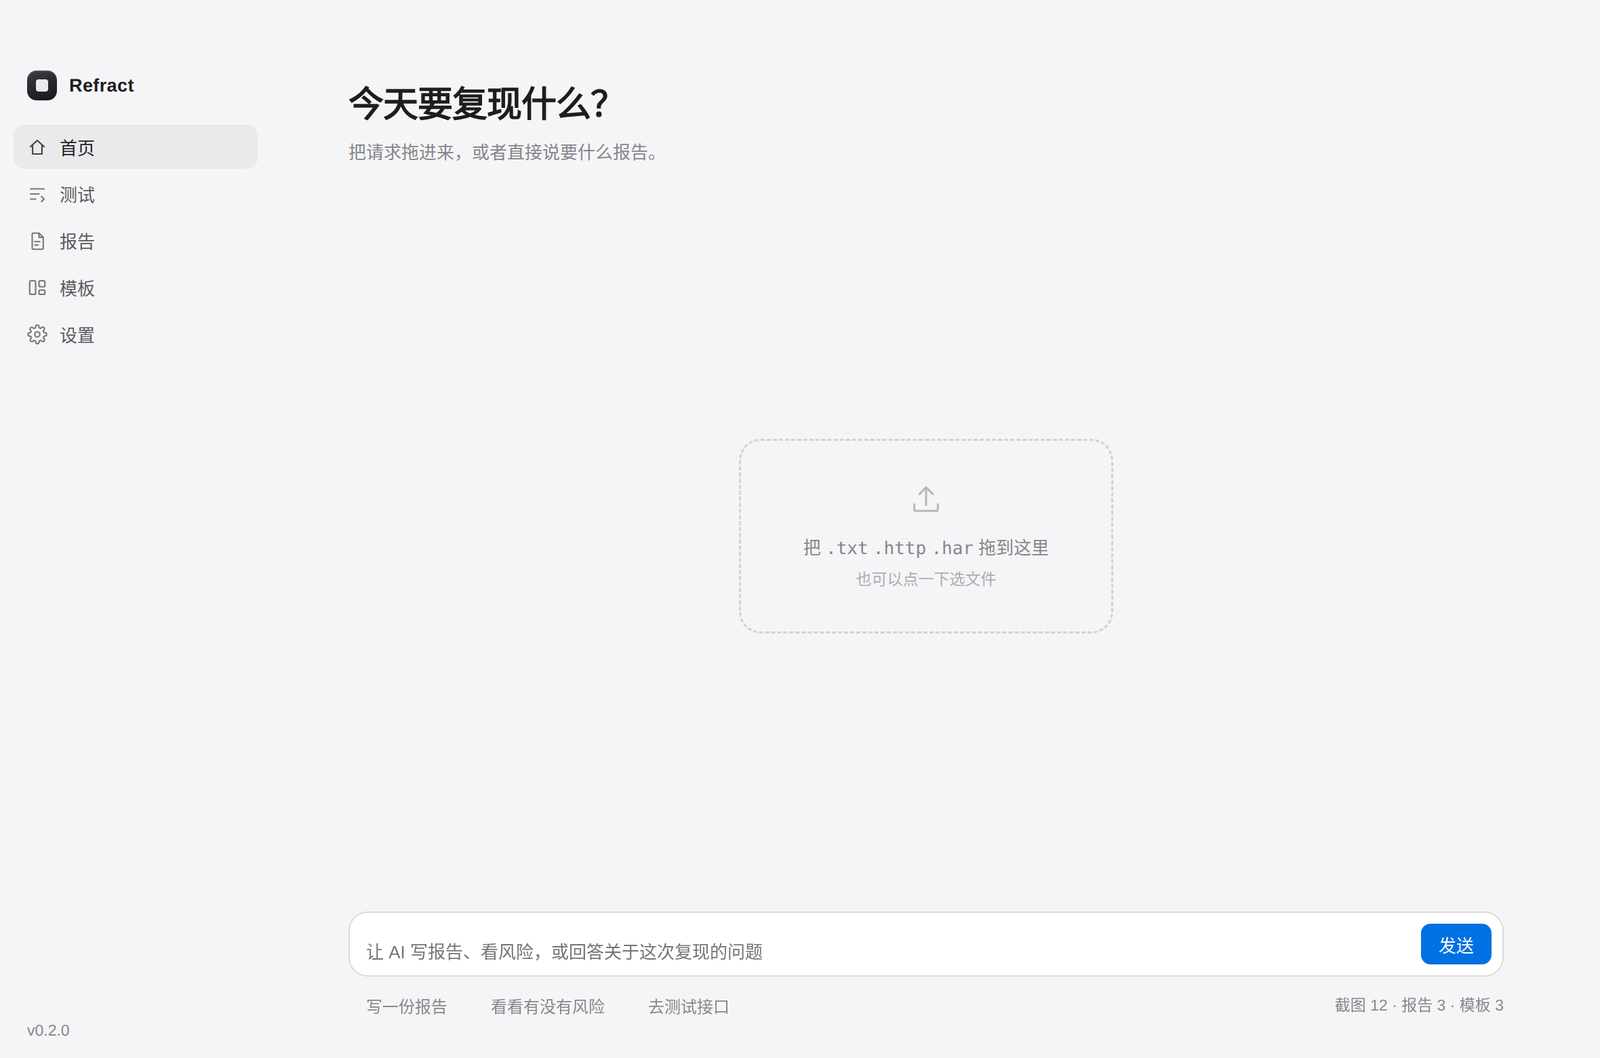
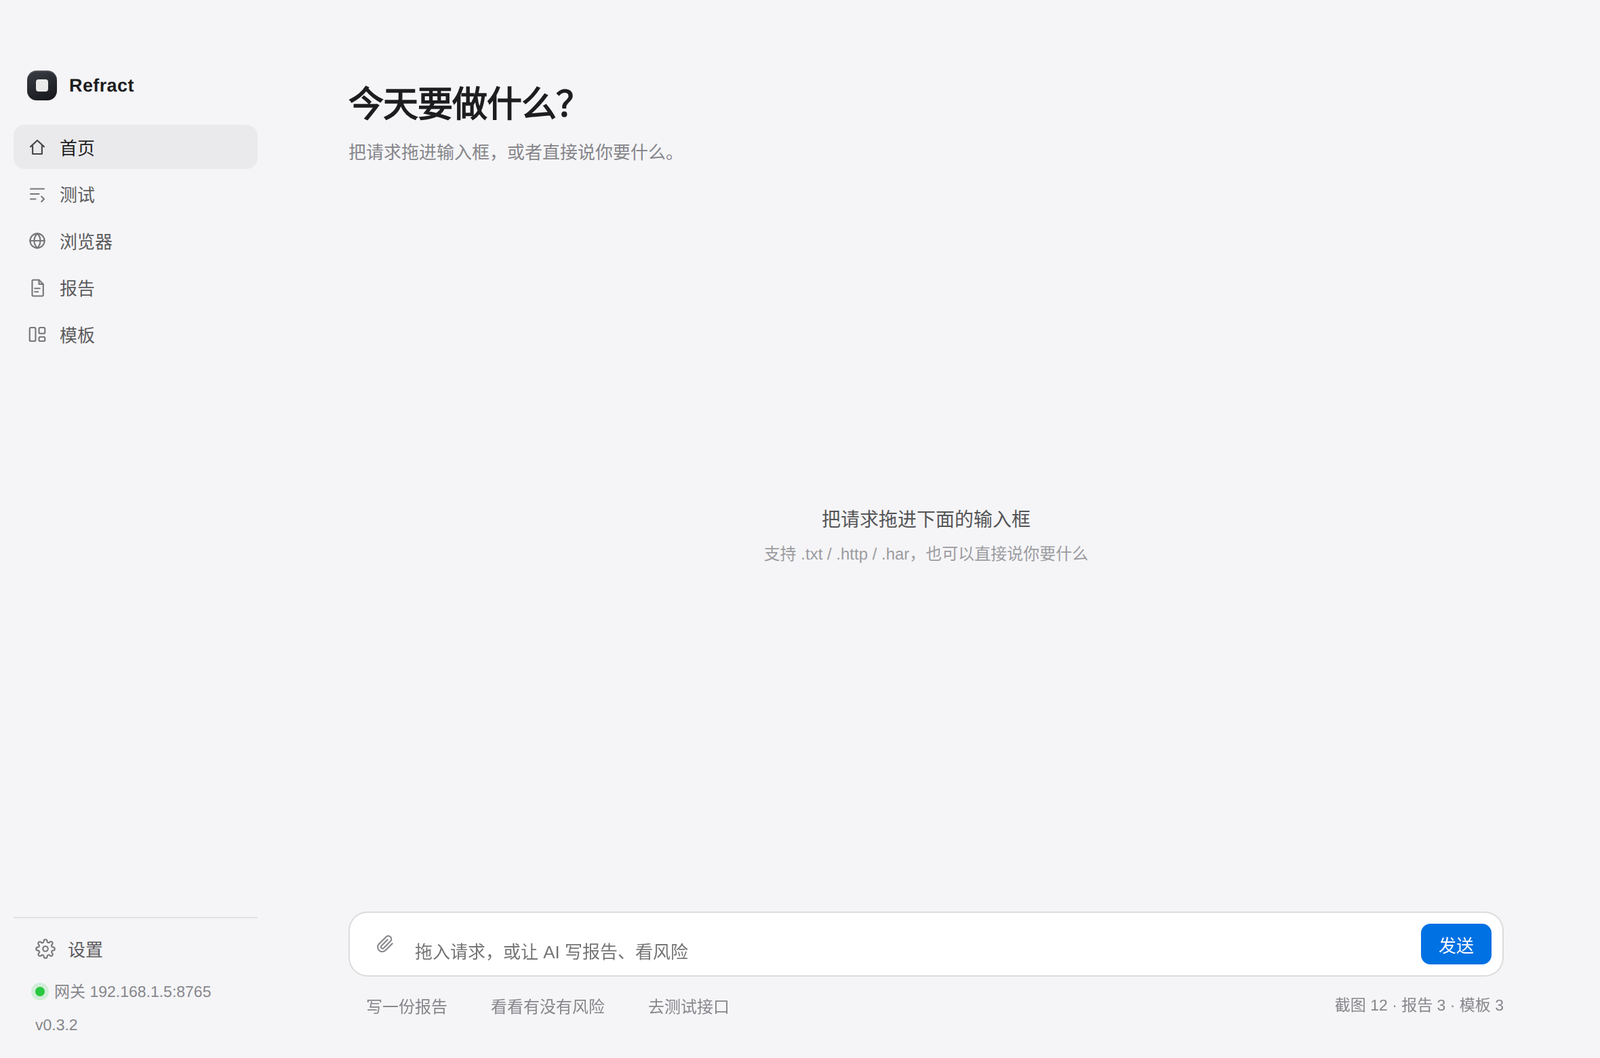
0.4.0：设置收进侧栏底部上拉菜单，底部显示网关地址，加备份导入导出

diff --git a/renderer/index.html b/renderer/index.html
@@ -32,13 +32,25 @@
       <svg viewBox="0 0 24 24" fill="none" stroke="currentColor" stroke-width="1.7" stroke-linecap="round" stroke-linejoin="round"><rect x="3" y="4" width="7" height="16" rx="1.5"/><rect x="14" y="4" width="7" height="7" rx="1.5"/><rect x="14" y="15" width="7" height="5" rx="1.5"/></svg>
       模板
     </button>
-    <button class="nav" data-page="settings">
-      <svg viewBox="0 0 24 24" fill="none" stroke="currentColor" stroke-width="1.7" stroke-linecap="round" stroke-linejoin="round"><circle cx="12" cy="12" r="3"/><path d="M19.4 15a1.6 1.6 0 0 0 .3 1.8l.1.1a2 2 0 1 1-2.8 2.8l-.1-.1a1.6 1.6 0 0 0-1.8-.3 1.6 1.6 0 0 0-1 1.5V21a2 2 0 1 1-4 0v-.1a1.6 1.6 0 0 0-1-1.5 1.6 1.6 0 0 0-1.8.3l-.1.1a2 2 0 1 1-2.8-2.8l.1-.1a1.6 1.6 0 0 0 .3-1.8 1.6 1.6 0 0 0-1.5-1H3a2 2 0 1 1 0-4h.1a1.6 1.6 0 0 0 1.5-1 1.6 1.6 0 0 0-.3-1.8l-.1-.1a2 2 0 1 1 2.8-2.8l.1.1a1.6 1.6 0 0 0 1.8.3H9a1.6 1.6 0 0 0 1-1.5V3a2 2 0 1 1 4 0v.1a1.6 1.6 0 0 0 1 1.5 1.6 1.6 0 0 0 1.8-.3l.1-.1a2 2 0 1 1 2.8 2.8l-.1.1a1.6 1.6 0 0 0-.3 1.8V9a1.6 1.6 0 0 0 1.5 1H21a2 2 0 1 1 0 4h-.1a1.6 1.6 0 0 0-1.5 1z"/></svg>
-      设置
-    </button>
-
     <div class="grow"></div>
-    <div class="ver" id="ver"></div>
+
+    <div class="side-foot">
+      <button class="nav" id="navSettings">
+        <svg viewBox="0 0 24 24" fill="none" stroke="currentColor" stroke-width="1.7" stroke-linecap="round" stroke-linejoin="round"><circle cx="12" cy="12" r="3"/><path d="M19.4 15a1.6 1.6 0 0 0 .3 1.8l.1.1a2 2 0 1 1-2.8 2.8l-.1-.1a1.6 1.6 0 0 0-1.8-.3 1.6 1.6 0 0 0-1 1.5V21a2 2 0 1 1-4 0v-.1a1.6 1.6 0 0 0-1-1.5 1.6 1.6 0 0 0-1.8.3l-.1.1a2 2 0 1 1-2.8-2.8l.1-.1a1.6 1.6 0 0 0 .3-1.8 1.6 1.6 0 0 0-1.5-1H3a2 2 0 1 1 0-4h.1a1.6 1.6 0 0 0 1.5-1 1.6 1.6 0 0 0-.3-1.8l-.1-.1a2 2 0 1 1 2.8-2.8l.1.1a1.6 1.6 0 0 0 1.8.3H9a1.6 1.6 0 0 0 1-1.5V3a2 2 0 1 1 4 0v.1a1.6 1.6 0 0 0 1 1.5 1.6 1.6 0 0 0 1.8-.3l.1-.1a2 2 0 1 1 2.8 2.8l-.1.1a1.6 1.6 0 0 0-.3 1.8V9a1.6 1.6 0 0 0 1.5 1H21a2 2 0 1 1 0 4h-.1a1.6 1.6 0 0 0-1.5 1z"/></svg>
+        设置
+      </button>
+      <div class="pop" id="settingsPop" hidden>
+        <button data-sec="general">常规</button>
+        <button data-sec="network">网络</button>
+        <button data-sec="llm">LLM</button>
+        <button data-sec="backup">备份</button>
+        <button data-sec="about">关于</button>
+      </div>
+      <div class="gateway" id="gateway" title="点击复制地址">
+        <span class="gdot off" id="gwDot"></span><span id="gwText">服务未启动</span>
+      </div>
+      <div class="ver" id="ver"></div>
+    </div>
   </aside>
 
   <main>
@@ -205,18 +217,9 @@
     <section class="page" id="page-settings">
       <div class="card" style="flex:1">
         <div class="card-h">设置</div>
-        <div class="settings">
-          <div class="sect">
-            <h3>模型服务</h3>
-            <div id="provList"></div>
-            <div class="row" style="max-width:340px">
-              <button class="btn" id="btnProvAdd">添加服务</button>
-              <button class="btn" id="btnProvTest">测试连接</button>
-            </div>
-          </div>
-
-          <div class="sect">
-            <h3>通用</h3>
+        <div class="settings" id="settingsScroll">
+          <div class="sect" id="sect-general">
+            <h3>常规</h3>
             <div class="row" style="max-width:520px">
               <label class="f">截图宽度（px）
                 <input class="inp" id="setWidth" type="number" min="800" max="2600" step="40" />
@@ -227,8 +230,8 @@
             </div>
           </div>
 
-          <div class="sect">
-            <h3>远程访问</h3>
+          <div class="sect" id="sect-network">
+            <h3>网络</h3>
             <div style="color:var(--muted);font-size:12px;line-height:1.7" id="remoteText">启动后显示地址</div>
             <div class="row" style="max-width:420px;align-items:flex-end">
               <label class="f">端口<input class="inp" id="setPort" type="number" min="1024" max="65535" step="1" /></label>
@@ -236,24 +239,39 @@
             </div>
           </div>
 
-          <div class="sect">
-            <h3>更新</h3>
-            <div class="row" style="max-width:520px;align-items:flex-end">
-              <button class="btn" id="btnCheckUpdate">检查更新</button>
-              <button class="btn primary" id="btnDoUpdate" disabled>下载并安装</button>
+          <div class="sect" id="sect-llm">
+            <h3>LLM</h3>
+            <div id="provList"></div>
+            <div class="row" style="max-width:340px">
+              <button class="btn" id="btnProvAdd">添加服务</button>
+              <button class="btn" id="btnProvTest">测试连接</button>
             </div>
-            <div style="color:var(--muted);font-size:12px" id="updateText">当前版本 v-</div>
           </div>
 
-          <div class="sect">
+          <div class="sect" id="sect-backup">
+            <h3>备份</h3>
+            <div style="color:var(--muted);font-size:12px;line-height:1.7">导出模型服务、模板以外的工作区设置，换机器时导回去。</div>
+            <div class="row" style="max-width:520px;align-items:flex-end">
+              <label class="f">导出时带上 API Key
+                <select class="inp" id="setWithKeys"><option value="0">不带</option><option value="1">带上</option></select>
+              </label>
+              <button class="btn" id="btnExport">导出配置</button>
+              <button class="btn" id="btnImport">导入配置</button>
+            </div>
+          </div>
+
+          <div class="sect" id="sect-about">
             <h3>关于</h3>
             <div style="color:var(--muted);font-size:12px;line-height:1.7">
               Refract · 漏洞测试与报告工作台<br />
               数据保存在本机，不上传任何请求内容。
             </div>
-            <div class="row" style="max-width:220px">
+            <div class="row" style="max-width:520px;align-items:flex-end">
+              <button class="btn" id="btnCheckUpdate">检查更新</button>
+              <button class="btn primary" id="btnDoUpdate" disabled>下载并安装</button>
               <button class="btn" id="btnDataDir">打开数据目录</button>
             </div>
+            <div style="color:var(--muted);font-size:12px" id="updateText">当前版本 v-</div>
           </div>
         </div>
       </div>

diff --git a/renderer/app.js b/renderer/app.js
@@ -179,7 +179,7 @@ function go(page) {
   $$('.page').forEach((p) => p.classList.toggle('on', p.id === 'page-' + page));
 }
 
-$$('.nav').forEach((b) => b.addEventListener('click', () => go(b.dataset.page)));
+$$('.nav').forEach((b) => b.addEventListener('click', () => { if (b.dataset.page) go(b.dataset.page); }));
 
 /* ---------------- 测试 ---------------- */
 
@@ -577,6 +577,56 @@ $('#btnDoUpdate').addEventListener('click', async () => {
 });
 
 
+/* ---------------- 设置菜单 ---------------- */
+
+function bindSettingsMenu() {
+  const pop = $('#settingsPop');
+  const btn = $('#navSettings');
+  if (!pop || !btn) return;
+
+  const close = () => { pop.hidden = true; btn.classList.remove('open'); };
+  const toggle = () => {
+    pop.hidden = !pop.hidden;
+    btn.classList.toggle('open', !pop.hidden);
+  };
+
+  btn.addEventListener('click', (e) => { e.stopPropagation(); toggle(); });
+  pop.addEventListener('click', (e) => e.stopPropagation());
+
+  pop.querySelectorAll('button[data-sec]').forEach((b) => {
+    b.addEventListener('click', () => {
+      const key = b.dataset.sec;
+      go('settings');
+      close();
+      const sec = document.getElementById('sect-' + key);
+      if (!sec) return;
+      sec.scrollIntoView({ block: 'start', behavior: 'smooth' });
+      sec.classList.add('flash');
+      setTimeout(() => sec.classList.remove('flash'), 900);
+    });
+  });
+
+  document.addEventListener('click', close);
+  document.addEventListener('keydown', (e) => { if (e.key === 'Escape') close(); });
+}
+
+function renderGateway(ri) {
+  const dot = $('#gwDot');
+  const text = $('#gwText');
+  if (!ri || !ri.url) {
+    dot.classList.add('off');
+    text.textContent = '服务未启动';
+    return;
+  }
+  const addr = ri.url.replace(/^https?:\/\//, '');
+  dot.classList.remove('off');
+  text.innerHTML = '网关 <b>' + esc(addr) + '</b>';
+  $('#gateway').onclick = async () => {
+    try { await navigator.clipboard.writeText(ri.url); } catch (e) { await window.api.clipboard(ri.url); }
+    toast('已复制 ' + ri.url);
+  };
+}
+
 /* ---------------- 浏览器 ---------------- */
 
 function showBrowserShot(path, note) {
@@ -830,6 +880,8 @@ async function boot() {
   $('#updateText').textContent = `当前版本 v${S.info.version}`;
   $('#protocol').value = (S.settings.ui && S.settings.ui.protocol) || 'auto';
   const ri = await window.api.remoteInfo();
+  bindSettingsMenu();
+  renderGateway(ri);
   if (ri && ri.url) {
     $('#remoteText').innerHTML = '局域网内其他设备打开：<br><b>' + esc(ri.url) + '</b>';
     $('#remoteText').onclick = () => window.api.clipboard(ri.url);
@@ -842,6 +894,23 @@ async function boot() {
     persist();
     toast('端口已保存，重启后生效');
   });
+  $('#btnExport').addEventListener('click', async () => {
+    const withKeys = $('#setWithKeys').value === '1';
+    const r = await window.api.settings.export(withKeys);
+    if (r.canceled) return;
+    if (r.ok) toast('已导出到 ' + r.path);
+    else toast('导出失败：' + r.error, true);
+  });
+  $('#btnImport').addEventListener('click', async () => {
+    const r = await window.api.settings.import();
+    if (r.canceled) return;
+    if (!r.ok) return toast('导入失败：' + r.error, true);
+    S.settings = r.settings;
+    renderProviders();
+    fillTemplateSelect();
+    toast('已导入，重启后全部生效');
+  });
+
   $('#btnCopyRemote').addEventListener('click', async () => {
     const txt = (ri && ri.url) || '';
     if (!txt) return toast('还没有地址', true);

diff --git a/renderer/style.css b/renderer/style.css
@@ -281,8 +281,9 @@ textarea.inp {
 
 /* ---------- 设置 ---------- */
 .settings { padding: 14px 16px; overflow: auto; display: flex; flex-direction: column; gap: 18px; }
-.sect { display: flex; flex-direction: column; gap: 8px; }
-.sect h3 { margin: 0; font-size: 12px; color: var(--muted); font-weight: 560; letter-spacing: .3px; text-transform: uppercase; }
+.sect { display: flex; flex-direction: column; gap: 10px; padding-top: 16px; border-top: 1px solid var(--line); }
+.sect:first-child { padding-top: 0; border-top: 0; }
+.sect h3 { margin: 0; font-size: 13px; color: var(--text); font-weight: 600; letter-spacing: -.1px; }
 .prov {
   border: 1px solid var(--line); border-radius: 10px; padding: 10px 12px;
   display: flex; flex-direction: column; gap: 8px; background: var(--panel);
@@ -384,4 +385,43 @@ textarea.inp {
   max-width: 100%; border-radius: 8px;
   border: 1px solid var(--line);
   box-shadow: 0 8px 28px rgba(0, 0, 0, .10);
+}
+
+/* ---------- 侧栏底部 ---------- */
+.side-foot { position: relative; padding: 6px 6px 4px; border-top: 1px solid var(--line); }
+.side-foot .nav { width: 100%; }
+.side-foot .nav.open { background: var(--hover); }
+
+.pop {
+  position: absolute; left: 6px; right: 6px; bottom: 100%; margin-bottom: 6px;
+  background: var(--panel); border: 1px solid var(--line-strong); border-radius: 12px;
+  box-shadow: 0 14px 38px rgba(0, 0, 0, .18); padding: 4px; z-index: 60;
+  transform-origin: bottom left;
+  animation: popIn .15s cubic-bezier(.2, .9, .3, 1.1);
+}
+@keyframes popIn {
+  from { opacity: 0; transform: translateY(8px) scale(.98); }
+  to { opacity: 1; transform: none; }
+}
+.pop button {
+  display: block; width: 100%; text-align: left; border: 0; background: none;
+  padding: 8px 10px; border-radius: 8px; font: inherit; font-size: 12.5px;
+  color: var(--text); cursor: default;
+}
+.pop button:hover { background: var(--hover); }
+
+.gateway {
+  display: flex; align-items: center; gap: 7px;
+  padding: 7px 10px; border-radius: 8px;
+  font-size: 11.5px; color: var(--muted);
+}
+.gateway:hover { background: var(--hover); color: var(--text); }
+.gateway b { font-weight: 500; }
+.gdot { width: 7px; height: 7px; border-radius: 50%; background: #28c840; box-shadow: 0 0 0 3px rgba(40, 200, 64, .16); }
+.gdot.off { background: #c9c9cf; box-shadow: none; }
+
+.sect.flash { animation: flash 0.9s ease-out; }
+@keyframes flash {
+  from { background: rgba(0, 113, 227, .07); }
+  to { background: transparent; }
 }

diff --git a/electron/main.js b/electron/main.js
@@ -241,6 +241,44 @@ ipcMain.handle('browser:close', () => {
 ipcMain.handle('settings:get', () => store.load());
 ipcMain.handle('settings:set', (_e, s) => store.save(s));
 
+ipcMain.handle('settings:export', async (_e, withKeys) => {
+  try {
+    const cfg = store.load();
+    const out = JSON.parse(JSON.stringify(cfg));
+    if (!withKeys) out.providers = (out.providers || []).map((p) => ({ ...p, apiKey: '' }));
+    const r = await dialog.showSaveDialog({
+      defaultPath: 'refract-settings.json',
+      filters: [{ name: 'JSON', extensions: ['json'] }]
+    });
+    if (r.canceled || !r.filePath) return { canceled: true };
+    fs.writeFileSync(r.filePath, JSON.stringify(out, null, 2));
+    return { ok: true, path: r.filePath };
+  } catch (e) {
+    return { ok: false, error: e.message };
+  }
+});
+
+ipcMain.handle('settings:import', async () => {
+  try {
+    const r = await dialog.showOpenDialog({
+      properties: ['openFile'],
+      filters: [{ name: 'JSON', extensions: ['json'] }]
+    });
+    if (r.canceled || !r.filePaths[0]) return { canceled: true };
+    const raw = JSON.parse(fs.readFileSync(r.filePaths[0], 'utf8'));
+    const cur = store.load();
+    const merged = store.save({
+      ...cur,
+      ...raw,
+      ui: { ...cur.ui, ...(raw.ui || {}) },
+      providers: raw.providers && raw.providers.length ? raw.providers : cur.providers
+    });
+    return { ok: true, settings: merged };
+  } catch (e) {
+    return { ok: false, error: e.message };
+  }
+});
+
 ipcMain.handle('templates:list', () => templates.list());
 ipcMain.handle('templates:upsert', (_e, t) => templates.upsert(t));
 ipcMain.handle('templates:remove', (_e, id) => templates.remove(id));

diff --git a/electron/remote.js b/electron/remote.js
@@ -25,7 +25,9 @@ const BRIDGE = `(function(){
     capture: (p) => j('/api/capture', {method:'POST', body: JSON.stringify(p)}),
     settings: {
       get: () => j('/api/settings'),
-      set: (s) => j('/api/settings', {method:'POST', body: JSON.stringify(s)})
+      set: (s) => j('/api/settings', {method:'POST', body: JSON.stringify(s)}),
+      export: () => Promise.resolve({ok:false, error:'远程模式请在本机导出'}),
+      import: () => Promise.resolve({ok:false, error:'远程模式请在本机导入'})
     },
     templates: {
       list: () => j('/api/templates'),

diff --git a/electron/preload.js b/electron/preload.js
@@ -12,7 +12,9 @@ contextBridge.exposeInMainWorld('api', {
 
   settings: {
     get: () => ipcRenderer.invoke('settings:get'),
-    set: (s) => ipcRenderer.invoke('settings:set', s)
+    set: (s) => ipcRenderer.invoke('settings:set', s),
+    export: (withKeys) => ipcRenderer.invoke('settings:export', withKeys),
+    import: () => ipcRenderer.invoke('settings:import')
   },
 
   templates: {

diff --git a/README.md b/README.md
@@ -28,7 +28,12 @@
 
 **远程访问**
 - 启动时在 8765 端口起一个本地服务，同一局域网的其他电脑用浏览器打开 `http://<你的IP>:8765` 就是同一个界面
+- 侧栏底部一直显示这个地址，点一下复制
 - 端口可在设置里改；改完重启生效
+
+**设置**
+- 侧栏底部固定「设置」，点开是上拉的菜单：常规 / 网络 / LLM / 备份 / 关于
+- 备份可以把设置导出成 JSON，换机器时导回去（默认不带 API Key）
 
 **报告**
 
